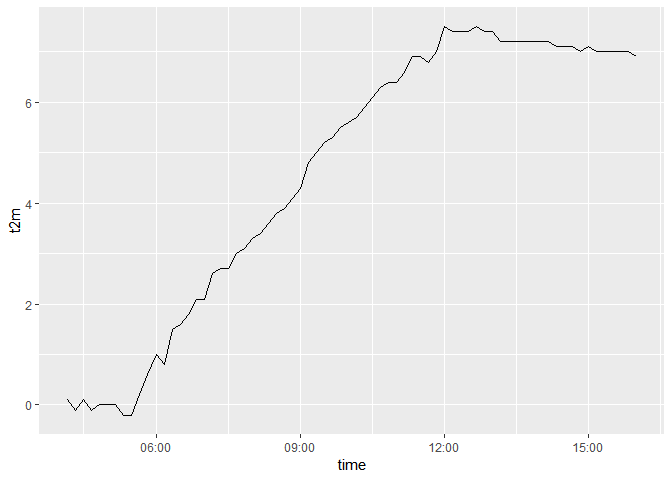
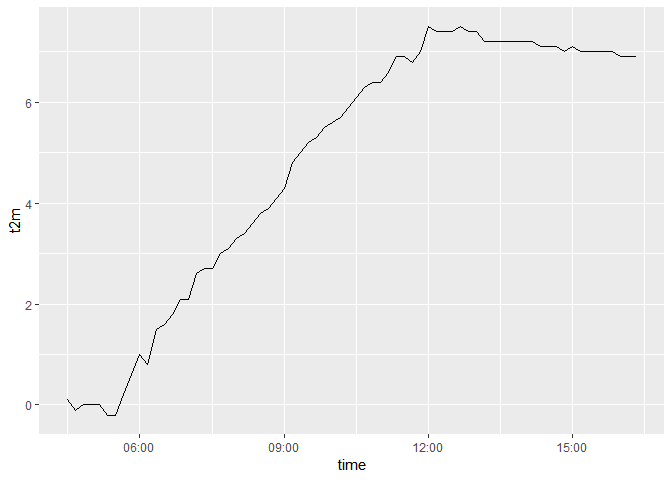
Change travis badge to point to .com

diff --git a/README.md b/README.md
@@ -4,7 +4,7 @@
 # fmir
 
 [![Travis build
-status](https://travis-ci.org/mikmart/fmir.svg?branch=master)](https://travis-ci.org/mikmart/fmir)
+status](https://travis-ci.com/mikmart/fmir.svg?branch=master)](https://travis-ci.com/mikmart/fmir)
 [![lifecycle](https://img.shields.io/badge/lifecycle-experimental-orange.svg)](https://www.tidyverse.org/lifecycle/#experimental)
 
 The **fmir** package provides tools for easily accessing up to date,
@@ -57,7 +57,7 @@ fmi_set_key("insert-your-apikey-here")
 ```
 
 Once your key is set, you can construct queries to the API with
-`fmi_query()`and then execute the queries with `fmi_data()`. A default
+`fmi_query()` and then execute the queries with `fmi_data()`. A default
 query with only a `place` parameter will return observations with a
 10-minute interval for the past 24 hours:
 
@@ -71,12 +71,12 @@ head(weather)
 #> # A tibble: 6 x 13
 #>   location   time                p_sea  r_1h    rh ri_10min snow_aws   t2m
 #>   <chr>      <dttm>              <dbl> <dbl> <dbl>    <dbl>    <dbl> <dbl>
-#> 1 65.00639 ~ 2018-09-29 04:10:00 1011.   NaN    95      NaN      NaN   0.1
-#> 2 65.00639 ~ 2018-09-29 04:20:00 1011.   NaN    95      NaN      NaN  -0.1
-#> 3 65.00639 ~ 2018-09-29 04:30:00 1011.   NaN    96      NaN      NaN   0.1
-#> 4 65.00639 ~ 2018-09-29 04:40:00 1011.   NaN    96      NaN      NaN  -0.1
-#> 5 65.00639 ~ 2018-09-29 04:50:00 1011.   NaN    96      NaN      NaN   0  
-#> 6 65.00639 ~ 2018-09-29 05:00:00 1011.   NaN    96      NaN      NaN   0  
+#> 1 65.00639 ~ 2018-09-29 04:30:00 1011.   NaN    96      NaN      NaN   0.1
+#> 2 65.00639 ~ 2018-09-29 04:40:00 1011.   NaN    96      NaN      NaN  -0.1
+#> 3 65.00639 ~ 2018-09-29 04:50:00 1011.   NaN    96      NaN      NaN   0  
+#> 4 65.00639 ~ 2018-09-29 05:00:00 1011.   NaN    96      NaN      NaN   0  
+#> 5 65.00639 ~ 2018-09-29 05:10:00 1011.   NaN    96      NaN      NaN   0  
+#> 6 65.00639 ~ 2018-09-29 05:20:00 1011.   NaN    96      NaN      NaN  -0.2
 #> # ... with 5 more variables: td <dbl>, vis <dbl>, wd_10min <dbl>,
 #> #   wg_10min <dbl>, ws_10min <dbl>
 
